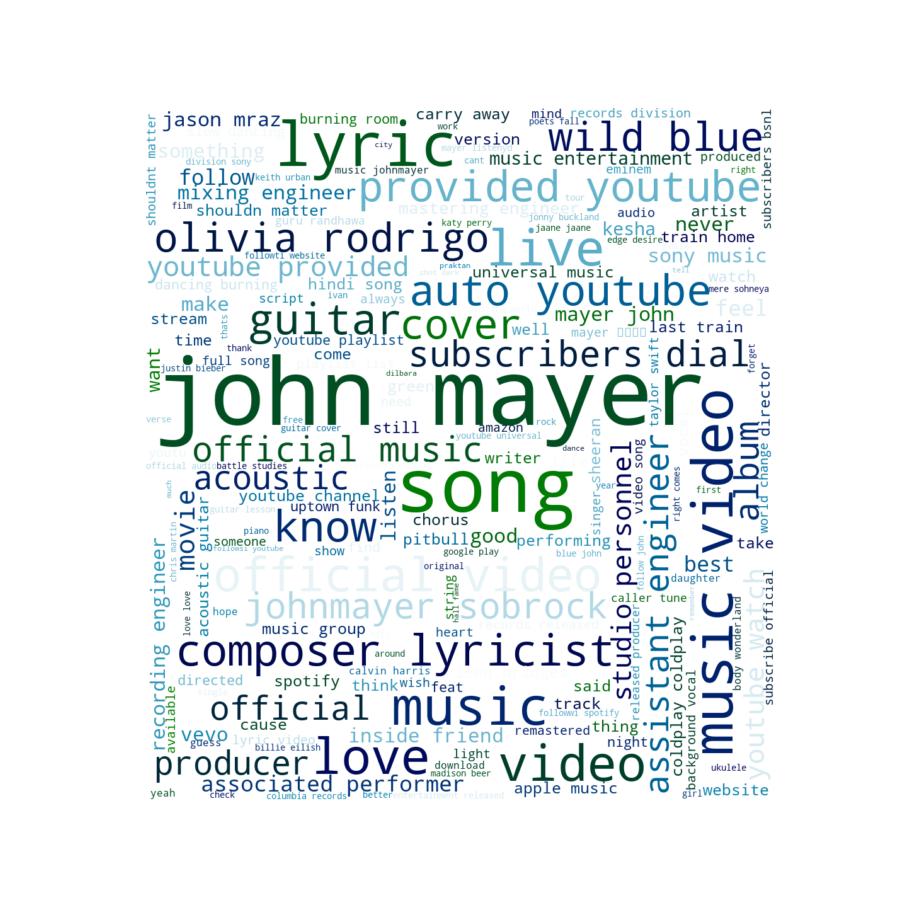
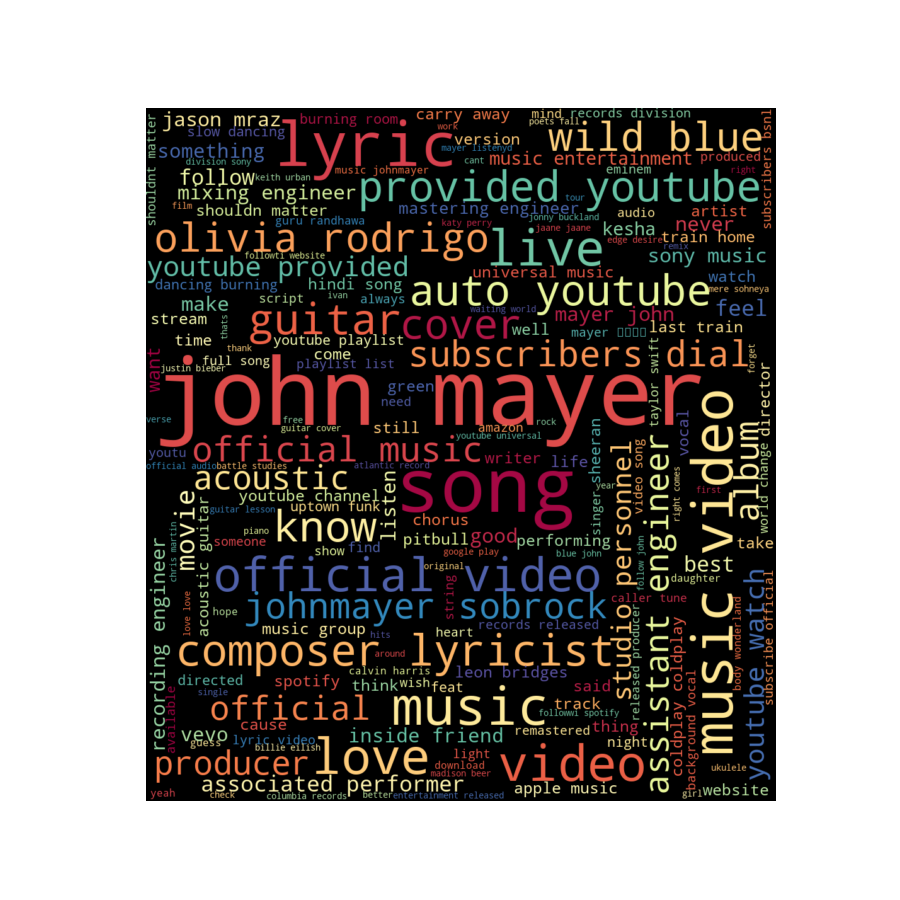
day-11. Finished adding comments and docstrings. Added requirements.txt

diff --git a/3. animation/word_cloud.py b/3. animation/word_cloud.py
@@ -16,7 +16,7 @@ from wordcloud import WordCloud, STOPWORDS
 
 class CreateWordCloud:
     '''
-    
+    Class to create the wordcloud animation.
     '''
     
     def __init__(self, df_music, ignore_words=None):
@@ -44,7 +44,14 @@ class CreateWordCloud:
                 'sax',
                 'tik',
                 'tok',
-                'unknown'
+                'unknown',
+                'provided',
+                'want',
+                'associated',
+                'apple',
+                'engineer',
+                'make',
+                'produced'
                 ]
     
 
@@ -101,7 +108,8 @@ class CreateWordCloud:
             all_desc_str = all_desc_str.replace("'", '')
             all_desc_str = all_desc_str.replace("#", '')
             
-            # Join the titles, tags and description to form one single string.
+            # Join the titles, tags and description to form one single string and
+            # remove unnecessary punctuation.
             words_string = all_titles_str + ' ' + all_tags_str + ' ' + all_desc_str
             words_string_clean = CreateWordCloud.remove_punct(words_string)
             words_string_clean = ' '.join([
@@ -116,7 +124,7 @@ class CreateWordCloud:
         
     def generateWC(self, part=999):
         '''
-        param part -> Specifies the name of the Final WordCloud image.
+        param part -> Used to specify the name of the Final WordCloud image.
         
         Function generates a random cloud using all the words stored from
         title, tag and description.
@@ -128,16 +136,16 @@ class CreateWordCloud:
             height=1100,
             margin=0,
             mask=None,
-            max_words=200,
+            max_words=190,
             min_font_size=5,
             stopwords=STOPWORDS,
             random_state=23,
-            background_color='white',
+            background_color='black',
             max_font_size=None,
             font_step=1,
             mode='RGB',
             collocations=True,
-            colormap='ocean',
+            colormap='Spectral',
             contour_width=0,
             contour_color='black',
             min_word_length=4
@@ -160,6 +168,11 @@ class CreateWordCloud:
         words_clean = self.get_words_string()
         self.generateWC(part=0)
         
+        # Find the top 350 words from out text file.
+        # Create a new string which has words listed in increasing
+        # order of their frequency.
+        # This is necessary so that we can show how new words are added
+        # to our word cloud animation.
         words_count = Counter(words_clean.split()).most_common(350)
         words_clean_ord = ''
         for word in words_count:
@@ -174,20 +187,24 @@ class CreateWordCloud:
                 margin=0,
                 mask=None,
                 scale=1,
-                max_words=250,
+                max_words=200,
                 min_font_size=5,
                 stopwords=STOPWORDS,
                 random_state=15,
-                background_color='white',
+                background_color='black',
                 max_font_size=None,
                 font_step=1,
                 mode='RGB',
                 collocations=True,
-                colormap='ocean',
+                colormap='Spectral',
                 contour_width=0,
                 contour_color='black',
                 min_word_length=3
             )
+            # We divide the whole text file into 10 parts, and for each iteration 
+            # choose a tenth of the file to add to our wordcloud.
+            # The tenth is randomly shuffled so that the wordcloud looks 
+            # more realistic.
             least_to_most_freq_words = words_clean_ord[:(part*len(words_clean_ord)//10) + 1].split()
             random.shuffle(least_to_most_freq_words)
             least_to_most_freq_words_random = ' '.join(least_to_most_freq_words)
@@ -196,6 +213,7 @@ class CreateWordCloud:
             plt.axis('off')
             plt.savefig(f'photos/WordCloud_{part}.png')
             
+        # Adding our final animation with the whole picture.
         self.generateWC(part+1)
             
     def animateWC(self):
@@ -204,7 +222,11 @@ class CreateWordCloud:
         Saves the final gif into the same directory as the file.
         '''
         self.randomWcs()
+        
+        # Choosing all the wordcloud images.
         images = list(glob.glob('photos/*.png'))
+        # Sorting according to the numbers added to the names, so that the wordcloud
+        # appears in order.
         list.sort(images, key=lambda x: int(x.split('\\')[1].split('.png')[0].split('_')[-1]))
         image_list = []
         for image_name in images:

diff --git a/1. modules/module_identify_music_video_3.py b/1. modules/module_identify_music_video_3.py
@@ -1,7 +1,8 @@
 r'''
 This is the third module of the project that uses the dataframe of watch history
 (containing VideoID, Title, Tags, categoryID, Description) and tries to figure out 
-if a video could be a music video:
+if a video is a music video:
+    
     Layer 1: Using CategoryID:
         - As understood from our experiment, Youtube identifies a music video by assigning a video Category 10.
         Although, this may not be 100% accurate. Refer the following link:
@@ -81,15 +82,15 @@ class IdentifyMusicVideo:
     
     def filter_by_tags(self, tags):
         '''
-        Filter the dataframe by the 500 most popular tags used in the playlist.
+        Filter the dataframe by the 750 most popular tags used in the playlist.
         
         Function creates a column called TagsCheck which is 1 if the tag belongs
-        to the top 500, 0 otherwise.
+        to the top 750, 0 otherwise.
         '''
         # Replacing nan/None tags (if any) with an empty string
         self.df_history_details['Tags'].fillna(' ', inplace=True)
         
-        # Setting TagsCheck=1, if tags belong to the top-500
+        # Setting TagsCheck=1, if tags belong to the top-750
         self.df_history_details['TagsCheck'] = self.df_history_details['Tags'].apply(
             lambda x: 1 if [common_tag for common_tag in x if common_tag in tags] else 0
             )

diff --git a/0. music_vid_identify/how_to_identify_a_music_video.py b/0. music_vid_identify/how_to_identify_a_music_video.py
@@ -26,7 +26,7 @@ import pickle
 from nltk.corpus import stopwords
 from googleapiclient.discovery import build
 
-# If you have never downloaded list of stopwords, uncomment the following lines:
+# If you have never downloaded list of stopwords before, uncomment the following lines:
 # import nltk
 # nltk.download('stopwords')
 
@@ -49,8 +49,8 @@ all_video_details = []
 playlist_id = 'PLhsz9CILh357zA1yMT-K5T9ZTNEU6Fl6n'
 # What's the idea, here?
 # We loop through each page of the playlist, fetch the video ID of all present
-# videos, fetch the details of those videos and append that to a list. Repeat
-# the process, until the playlist is exhausted.
+# videos, fetch the details of those videos and append them to a list. Repeat
+# the process, until the playlist pages are exhausted.
 while True:
     # YouTube resource to fetch playlist video IDs.
     pl_req = yt.playlistItems().list(
@@ -66,7 +66,8 @@ while True:
     for item in pl_response['items']:
         video_ids.append(item['contentDetails'].get('videoId'))
 
-    # YouTube resource to fetch details of the obtained 50 videos
+    # YouTube resource to fetch details of the obtained 50 videos.
+    # snippet contains Title, Tags, Description and CategoryID.
     vid_req = yt.videos().list(
         part='snippet',
         id=','.join(video_ids)

diff --git a/1. modules/module_extract_urls_1.py b/1. modules/module_extract_urls_1.py
@@ -1,15 +1,16 @@
 """
+First, we need the watch history file. It can be downloaded from Google Takeout in 
+either an HTML or JSON format.
 This is the first module of the project which performs the following tasks:
-    1. Watch History File: We need the history file that can be downloaded from Google takeouts.
-    We can download our history in either an HTML or a JSON file format.
-        (a) For HTML, we do the following:
+    1.
+        (a) For HTML history file:
             - Remove the HEAD tag from the file.
             - Extract all the links present and the texts associated with the links.
             - Remove the links which are from myactivity.google
             - Remove any videos that have 'short' in their title.
             - For all the YouTube links, extract the VideoID.
         
-        (b) For JSON, we do the following:
+        (b) For JSON history file:
             - Extract all the links present and the texts associated with the links.
             - Remove any videos that have 'short' in their title.
             - For all the YouTube links, extract the VideoID.

diff --git a/2. song_database/create_song_db_1.py b/2. song_database/create_song_db_1.py
@@ -3,10 +3,10 @@ r'''
 Steps:
     - First we extract the URL, Text(title), Date(only for json) and VideoID from the history file and create a csv.
     - If this file already exists, we open it.
-    - For all the VideoIDs present, we fetch the details and add it to the dataframe.
+    - For all the VideoIDs present, we fetch the details and add it to a dataframe.
     - If this file already exists, we open it.
-    - Figure out the duration of our Watched History.
-    - Pass the dataframe to the filter_music_video pass through the first layer of music identification filter.
+    - Figure out the period of our Watched History.
+    - Pass the dataframe that we created earlier through the first layer of music identification filter.
     - Create a csv of the database.
 '''
 

diff --git a/1. modules/module_fetch_video_details_2.py b/1. modules/module_fetch_video_details_2.py
@@ -3,7 +3,7 @@ This is the second module of the project which performs the following tasks:
     - For a given video ID, fetches the details mentioned below.
     - Create a dataframe of the details associated to a VideoID.
 
-Reqd. details:
+Details that are fetched:
     -VideoID
     -Title
     -CategoryID
